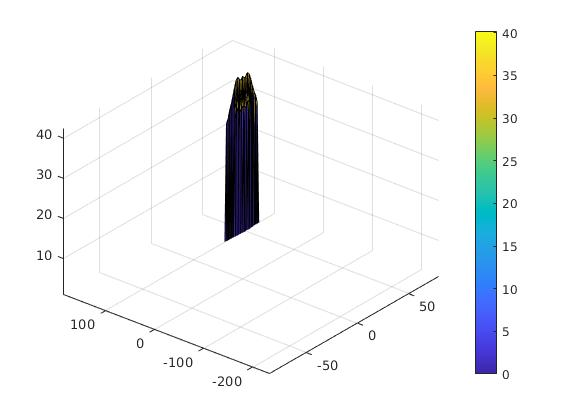
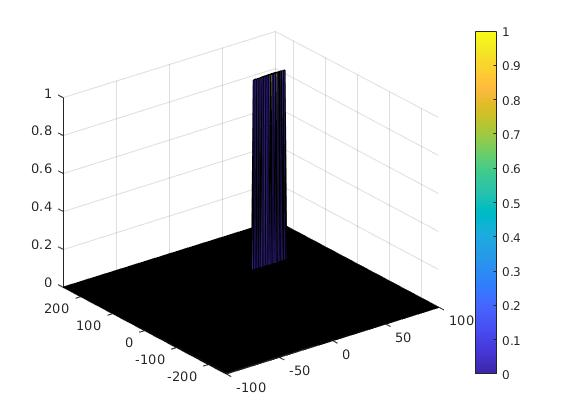
[Hanyu] (#02) Small fix on m file

diff --git a/radar_target_generation_and_detection.m b/radar_target_generation_and_detection.m
@@ -209,7 +209,7 @@ for i = 1:nRow
 end
 
 noise_level = padarray(noise_level,[Tr+Gr,Td+Gd],1e5,'both');
-CFAR = RDM.*(RDM>noise_level);
+CFAR = 1*(RDM>noise_level);
 
 % *%TODO* :
 %display the CFAR output using the Surf function like we did for Range

diff --git a/README.md b/README.md
@@ -45,7 +45,11 @@ After we get the noise level matrix using our siling window as dicussed above. W
 
 ``` Matlab
 noise_level = padarray(noise_level,[Tr+Gr,Td+Gd],1e5,'both');
-CFAR = RDM.*(RDM>noise_level);
+CFAR = 1*(RDM>noise_level);
 ```
 
 The 1e5 value in the code block is supposed to be bigger than evevy decibels in the range doppler map (RDM). Thus we can make a mask by using '**RDM>noise_level**'. The edges of this mask are all 0 which can suppress the non-thresholded cells at the edges of the RDM.
+
+Final output is as follow:
+
+<img src="./output/CFAR.jpg">
